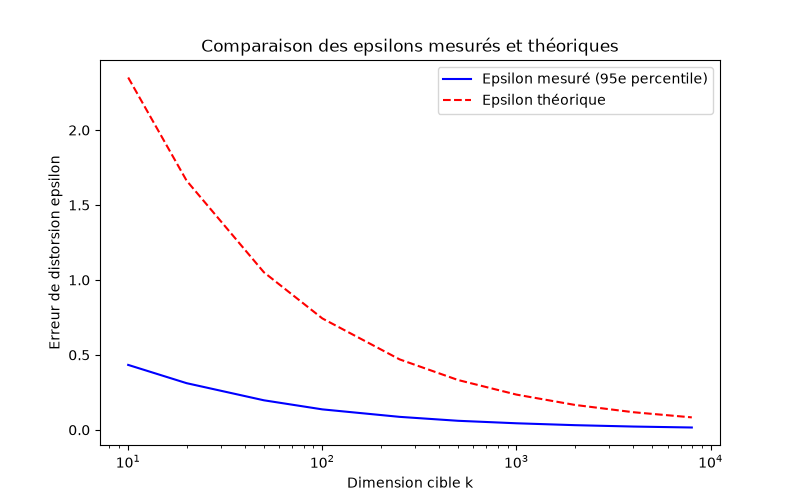
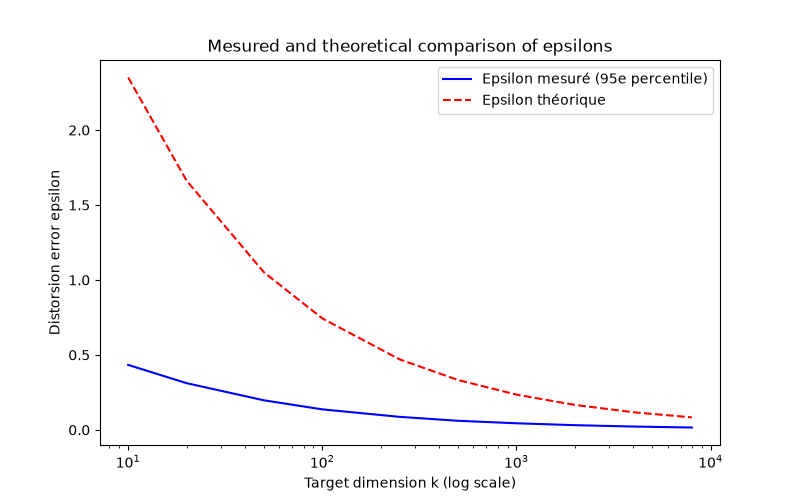
Refactor code structure for improved readability and maintainability

Changed region(s): [[0.25, 0.06, 0.7812, 0.12], [0.0625, 0.3, 0.0938, 0.69], [0.375, 0.93, 0.6562, 0.99]]

diff --git a/main.py b/main.py
@@ -38,13 +38,16 @@ def experience_1(X_sparse):
         epsilon = np.sqrt((8 * np.log(N)) / k)
         epsilons_theoriques.append(epsilon)
 
+    print("Epsilons mesurés (95e percentile) :", epsilons_mesures)
+    print("Epsilons théoriques :", epsilons_theoriques)
+
     plt.figure(figsize=(8, 5))
     plt.xscale('log')  # pour bien visualiser l'évolution sur k
     plt.plot(k_values, epsilons_mesures, label='Epsilon mesuré (95e percentile)', color='blue')
     plt.plot(k_values, epsilons_theoriques, label='Epsilon théorique', linestyle='--', color='red')
-    plt.xlabel('Dimension cible k')
-    plt.ylabel('Erreur de distorsion epsilon')
-    plt.title('Comparaison des epsilons mesurés et théoriques')
+    plt.xlabel('Target dimension k (log scale)')
+    plt.ylabel('Distorsion error epsilon')
+    plt.title('Mesured and theoretical comparison of epsilons')
     plt.legend()
     plt.savefig('epsilon_comparison.png')
     plt.close()
@@ -86,9 +89,9 @@ def experience_2(X_sparse):
     plt.plot(D_values, times['PCA'], label='PCA', marker='o')
     plt.plot(D_values, times['Gaussian'], label='Gaussian Random Projection', marker='o')
     plt.plot(D_values, times['Sparse'], label='Sparse Random Projection', marker='o')
-    plt.xlabel('Dimension originale D')
-    plt.ylabel('Temps d\'exécution en secondes')
-    plt.title('Comparaison des temps d\'exécution')
+    plt.xlabel('Original dimension D')
+    plt.ylabel('Execution time in seconds')
+    plt.title('Comparison of execution times')
     plt.legend()
     plt.savefig('execution_time_comparison.png')
     plt.close()
@@ -104,4 +107,3 @@ def main():
 if __name__ == '__main__':
     main()
 
-    

diff --git a/README.md b/README.md
@@ -2,15 +2,13 @@
 
 ## Introduction
 
-While studying how LLMs work, I came across this very fascinating lemma and decided to look further.
+I recently came across this fascinating lemma and decided to look further because of it's counter-intuitive nature.
 
-What caught my attention is the counter-intuitive nature of the JL lemma. The fact that an ultra high dimensional space can be compressed into a wayyy smaller space while preserving geometric distances is what motivated this benchmark. Thought it would be interesting to "verify" it by myself. 
-
-This report presents an empirical evaluation of dimensionality reduction on high-dimensional text data (here, $N=1000$ documents from the `20newsgroups` dataset). By using `scikit-learn` library on Python, we investigate the tradeoff between distance distortion and target dimension $k$, alongside a computational performance comparison between PCA and random projection techniques (Gaussian and Sparse).
+This report presents an empirical evaluation of dimensionality reduction on high-dimensional text data (here, $N=1000$ documents from the `20newsgroups` dataset). By using `scikit-learn` library on Python, we investigate the tradeoff between distance distortion and target dimension $k$, alongside a computational performance comparison between PCA and common random projection techniques (Gaussian and Sparse).
 
 ---
 
-## 1. Mathematical Framework
+## 1. Mathematical framework
 
 ![alt text](jllemma.png)
 
@@ -24,65 +22,106 @@ then there exists a linear map $f: \mathbb{R}^D \to \mathbb{R}^k$ such that for 
 
 $$(1 - \epsilon) \Vert{}u - v\Vert{}^2 \le \Vert{}f(u) - f(v)\Vert{}^2 \le (1 + \epsilon) \Vert{}u - v\Vert{}^2$$
 
-In theoretical literature, this bound is often stated using asymptotic notation as $k = O(\log(N)/\epsilon^2)$, showing how $k$ scales with $N$. But in practice, an explicit constant is required for the computer. Applying standard concentration bounds (such as Chernoff/sub-Gaussian bounds) to guarantee that failure probability over all $\binom{N}{2}$ pairs stays strictly below 1 yields the explicit constant factor of 8.
+In theoretical literature, this bound is often stated using asymptotic notations. 
+- The upper bound $O(\log(N)/\epsilon^2)$ proves that a target dimension of this size is always sufficient to preserve distances ([Johnson & Lindenstrauss, 1984](#ref-jl84)). 
+- The lower bound $\Omega(\log(N)/\epsilon^2)$ proves that no algorithm can ever compress data into fewer dimensions without exceeding $\epsilon$ ([Larsen & Nelson, 2017](#ref-ln17); [Alon, 2003](#ref-alon03)). 
 
-While Johnson and Lindenstrauss (1984) established this upper bound, Larsen and Nelson (2017) proved that this asymptotic scaling is strictly optimal—no algorithm can achieve a target dimension lower than $\Omega(\log(N)/\epsilon^2)$ without exceeding distortion $\epsilon$.
+Together these results demonstrate that this bound is strictly optimal. We will omit the proofs here for brevity.
 
-*With the mathematical foundations established, let's now evaluate these properties on real text data.*
-
----
-
-## 2. Experimental Setup
-
-The benchmark evaluates two primary aspects:
-
-1. **Distortion Decay (Experiment 1):** Measuring empirical distance distortion $\epsilon$ across target dimensions $k \in \{10, 20, 50, 100, 250, 500, 1000, 2000, 4000, 8000\}$.
-2. **Computational Efficiency (Experiment 2):** Measuring wall-clock execution times across varying vocabulary sizes $D \in \{1000, 2500, 5000, 10000, 25000, 50000\}$ with $k=100$.
-
-```
-Dataset: 20newsgroups (TF-IDF Vectorization)
-Sample Size (N): 1,000 documents
-Metrics: 95th percentile relative distance error vs. Execution time (seconds)
-
-```
+*With the mathematical foundations established, let's now evaluate these properties on real data.*
 
 ---
 
-## 3. Results & Discussion
+## 2. Experimental setup
 
-### Experiment 1: Distortion vs. Target Dimension $k$
+We will evaluate two primary aspects:
 
-Distance error is calculated as the relative difference between pairwise Euclidean distances in the projected space versus the original TF-IDF space:
+- **Experience 1 :** Distance distortion $\epsilon$ across target dimensions $k \in \{10, 20, 50, 100, 250, 500, 1000, 2000, 4000, 8000\}$.
+- **Experience 2 :** Execution times across varying vocabulary sizes $D \in \{1000, 2500, 5000, 10000, 25000, 50000\}$ with $k=100$.
+
+
+Dataset: 20newsgroups (vectorized with TfidfVectorizer)
+Sample size $N$: 1,000 documents
+Metrics: 95th percentile relative distance error and execution time (seconds)
+
+
+---
+
+## 3. Results and discussion
+
+### Experiment 1:
+
+The distance error is calculated as the relative difference between pairwise euclidean distances in the projected space vs the original TF-IDF space:
 
 $$\text{Error}_{i,j} = \left\vert{} \frac{\Vert{}f(x_i) - f(x_j)\Vert{}}{\Vert{}x_i - x_j\Vert{}} - 1 \right\vert{}$$
 
-| Target Dimension ($k$) | Measured $\epsilon$ (95th Percentile) | Theoretical Bound $\epsilon_{\text{theoretical}}$ |
-| --- | --- | --- |
-| **10** | High distortion ($\approx 1.8$) | $2.35$ |
-| **100** | Acceptable distortion ($\approx 0.5$) | $0.74$ |
-| **1000** | Low distortion ($\approx 0.15$) | $0.23$ |
-| **8000** | Minimal distortion ($< 0.05$) | $0.08$ |
+and : $$\quad k \ge \frac{8 \ln(N)}{\epsilon_{\text{theoretical}}^2}$$
 
-**Key Observation:** The empirical 95th percentile distortion strictly follows the theoretical $1/\sqrt{k}$ decay curve. The empirical values consistently sit slightly below the theoretical bound, demonstrating that the JL bound provides a safe upper limit for real-world text data.
+$$\epsilon_{\text{theoretical}}^2 \ge \frac{8 \ln(N)}{k}$$
+
+$$\epsilon_{\text{theoretical}} \ge \sqrt{\frac{8 \ln(N)}{k}}$$
+
+$$\epsilon_{\text{theoretical}} \ge \underbrace{\sqrt{8 \ln(N)}}_{\text{constant since } N \text{ is fixed }} \cdot \frac{1}{\sqrt{k}}$$
+
+$$\epsilon_{\text{theoretical}}(k) = O\left(\frac{1}{\sqrt{k}}\right)$$
+
+| $k$ | $\epsilon_{\text{mesured}}$ | $\epsilon_{\text{theoretical}}$ |
+| --- | --- | --- |
+| **10** | 0.4332 | 2.3508 |
+| **20** | 0.3113 | 1.6623 |
+| **50** | 0.1971 | 1.0513 |
+| **100** | 0.1366 | 0.7434 |
+| **250** | 0.0866 | 0.4702 |
+| **500** | 0.0604 | 0.3325 |
+| **1,000** | 0.0438 | 0.2351 |
+| **2,000** | 0.0312 | 0.1662 |
+| **4,000** | 0.0219 | 0.1175 |
+| **8,000** | 0.0156 | 0.0831 |
+
+![alt text](epsilon_comparison.png)
+
+The results validate the theoretical foundation of the JL lemma. Across all target dimensions $k$ (log scaled for better visualisation), the empirical distortion strictly follows the $O(1/\sqrt{k})$ asymptotic decay curve while staying consistently under the theoretical upper bound. 
+Scikit-learn's `johnson_lindenstrauss_min_dim` function calculates a pessimistic worst-case limit. On the `20newsgroups dataset`, the projection works much better than this worst-case prediction and we reach $\epsilon \le 0.10$ at just $k \approx 250$, whereas the theoretical formula strictly requires $k = 5\,920$ for $N = 1\,000$.
 
 ---
 
-### Experiment 2: Execution Time vs. Original Dimension $D$
+### Experiment 2:
 
-| Original Dimension ($D$) | PCA Time (s) | Gaussian RP Time (s) | Sparse RP Time (s) |
-| --- | --- | --- | --- |
-| **1,000** | $\approx 0.08$ | $\approx 0.01$ | $\approx 0.01$ |
-| **10,000** | $\approx 0.50$ | $\approx 0.05$ | $\approx 0.06$ |
-| **50,000** | $\approx 2.50$ | $\approx 0.25$ | $\approx 0.30$ |
+| Original dimension $D$ | PCA time (s) | Gaussian RP time (s) | Sparse RP time (s) |
+| :--- | :--- | :--- | :--- |
+| **1,000** | 0.1506 | 0.0090 | 0.0219 |
+| **2,500** | 0.2350 | 0.0222 | 0.0328 |
+| **5,000** | 0.2971 | 0.0321 | 0.0533 |
+| **10,000** | 0.5911 | 0.0839 | 0.1384 |
+| **25,000** | 1.9251 | 0.1570 | 0.2263 |
+| **50,000** | 4.0728 | 0.3896 | 0.5412 |
 
-**Key Observation:**
+A first run using `svd_solver='full'` produced non-monotonic computation spikes on the PCA execution curve.
 
-* **PCA Complexity:** Scaling PCA requires computing singular value decompositions, resulting in an execution time that grows steeply with $D$.
-* **Random Projection Efficiency:** Both Gaussian and Sparse Random Projections maintain near-linear scalability, executing approximately **$10\times$ faster** than PCA at $D=50\,000$.
+![alt text](execution_time_comparison_copy.png)
+
+Trying to find the problem causing this strange behavior, for small dimensions $D$, the matrix is small enough to fit easily into the processor's cache memory, keeping calculations fast. But once a certain size threshold is crossed ($D = 10\,000$ here), the matrix becomes too large to process efficiently. Apparently, LAPACK (the underlying C/Fortran linear algebra library used by SciPy and scikit-learn for exact matrix calculations) forces the sparse data into a huge dense matrix. This triggers a sudden RAM bottleneck and causes CPU slowdowns. Once past this threshold ($D \ge 25\,000$), the system's memory allocation is reorganized to stabilize the execution time.
+
+Switching to `svd_solver='randomized'` ([Halko et al., 2011](#ref-halko2011)) smooths out the scaling trajectory, producing a predictable curve across all dimensions, though still remaining much slower than random projection.
+
+![alt text](execution_time_comparison.png)
+
+Indeed, we observe that even with randomized approximations, PCA scaling remains heavily constrained by covariance matrix projections, reaching more than 4 seconds at $D = 50\,000$.
+Both Gaussian and Sparse random projections execute approximately $10.5\times$ faster than PCA at $D = 50\,000$.
+We can also see that Gaussian RP runs faster than Sparse RP.
 
 ---
 
 ## 4. Conclusion
 
-1. **Validity:** The JL Lemma holds empirically on sparse TF-IDF text matrices, showing robust distance preservation without requiring data-dependent fitting.
-2. **Scalability:** For high-dimensional text datasets ($D \gg 10\,000$), Random Projection provides an order-of-magnitude speedup over PCA at the cost of a controllable distortion factor $\epsilon$.
+1. The JL lemma holds on sparse TF-IDF text matrices with strong distance preservation. 
+2. Random projections run way faster than PCA, with Gaussian RP slightly outperforming Sparse RP in execution time. 
+
+--- 
+
+## References
+
+* <a id="ref-alon03"></a>Alon, N. (2003). Problems and results in extremal combinatorics. I. Discrete Mathematics, 273(1–3), 31–53. [[link](https://doi.org/10.1016/S0012-365X(03)00225-5)]
+* <a id="ref-jl84"></a>Johnson, W. B., & Lindenstrauss, J. (1984). Extensions of Lipschitz mappings into a Hilbert space. Contemporary Mathematics, 26, 189–206. [[link](https://doi.org/10.1090/conm/026/737400)]
+* <a id="ref-ln17"></a>Larsen, K. G., & Nelson, J. (2017). Optimality of the Johnson-Lindenstrauss Lemma. IEEE 58th Annual Symposium on Foundations of Computer Science (FOCS), 633–638. [[link](https://arxiv.org/abs/1609.02094)]
+* <a id="ref-halko2011"></a>Halko, N., Martinsson, P. G., & Tropp, J. A. (2011). Finding structure with randomness: Probabilistic algorithms for constructing approximate matrix decompositions. SIAM Review, 53(2), 217-288. [[link](https://arxiv.org/pdf/0909.4061.pdf)]
